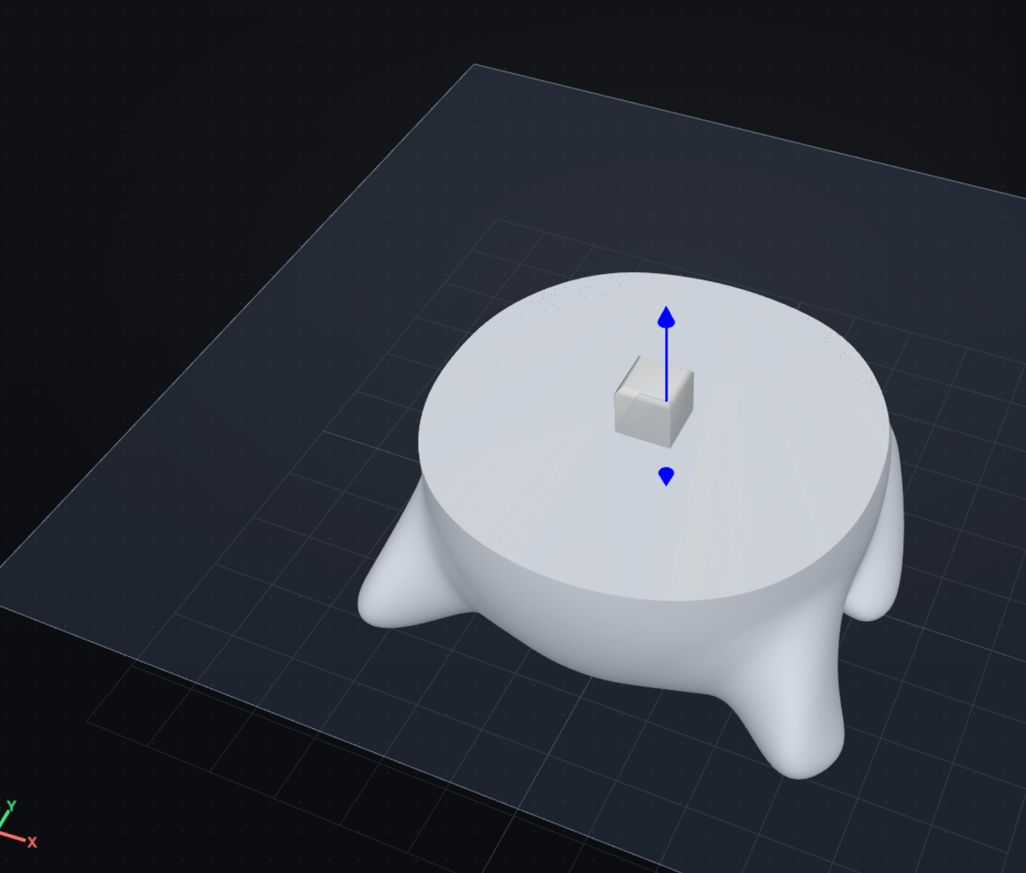
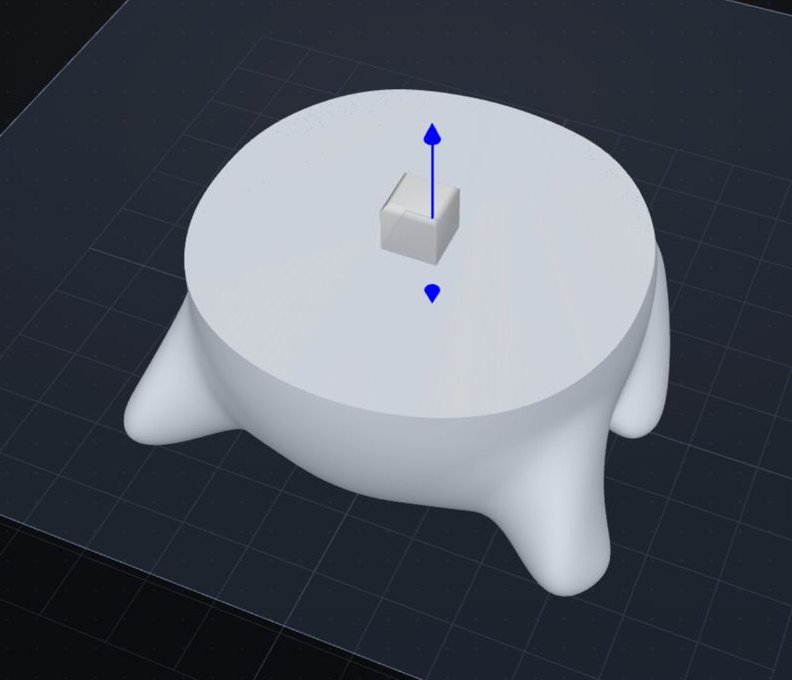
Editor: English only, centred Cut and connect image (v0.5.2) (#43)
* Landing page at /, editor at /editor (v0.5.0)

- New landing page (app/index.html, src/landing.ts, src/landing.css) based on the approved v9 mockup: EN/SK, drop zone that opens the model in the editor, #3DBenchy sample link, FAQ, privacy, feedback.
- Editor moved to app/editor.html, served at /editor (.htaccess rewrite, dev/preview middleware). /editor?sample=benchy opens the sample, /editor?open=drop opens the file dropped on the landing page (handed over through IndexedDB).
- Editor: tooltips for B/E/F/S/V and X/Y/Z, "Cut parts" tab with an icon, phone/tablet notice, texts name Bambu Studio, OrcaSlicer and PrusaSlicer.
- 3MF export also writes slic3rpe:mmu_segmentation so PrusaSlicer reads the colours.
- Anonymous counts: /api/hit.php (upload, export), /api/count.php, /api/stats.php. No IPs, no cookies, no file data.
- Hidden export counter (COUNTER_MIN) and desktop sign-up switch in src/site-config.ts.
- SEO: meta, Open Graph image, schema.org SoftwareApplication (price 0), robots.txt, sitemap.xml.
- Self-hosted fonts (Archivo, Geist, Geist Mono).

Claude-Session: https://claude.ai/code/session_015thdPVs6qyhi56jzz38Mqk

* Landing page: English only, fix the before/after colours (v0.5.1)

- The coloured Benchy in section 02 never loaded: it had loading="lazy" but starts fully clipped, so the browser never saw it as visible. Both wipe images now load normally.
- The landing page is English only: EN/SK switch and Slovak texts removed.
[…]

diff --git a/src/main.ts b/src/main.ts
@@ -17,7 +17,7 @@ import { Viewer, MAX_COLOURS, type Hit } from './viewer';
 import { anglesOfNormal, cutByPlane, inSection, normalFromAngles, planeFrame, planeSections, roomAt, sectionPole, type CutPlane, type CutResult, type P2, type Section } from './core/planecut';
 import type { V3 } from './core/cap';
 import earcut from 'earcut';
-import { t, applyStatic, setLang, getLang, type Lang } from './i18n';
+import { t, applyStatic } from './i18n';
 import { track } from './analytics';
 import { takeHandoff } from './handoff';
 
@@ -810,20 +810,6 @@ function bindUi() {
   $('exportObj').onclick = exportObj;
   bindPanels();
   bindCut();
-
-  const lang = $('langSelect') as HTMLSelectElement;
-  lang.value = getLang();
-  lang.onchange = () => {
-    setLang(lang.value as Lang);
-    renderShortcuts();
-    renderPalette();
-    updateHint();
-    syncOptions();
-    renderReport();
-    renderResult();
-    renderOutliner();
-    if (state.mesh) $('triCount').textContent = `${state.mesh.faceCount.toLocaleString()} ${t.triangles}`;
-  };
 
   const range = (id: string, key: 'size' | 'strength' | 'angle' | 'gap') => {
     $(id).oninput = (e) => {

diff --git a/app/index.html b/app/index.html
@@ -186,7 +186,7 @@
             <p style="color:var(--muted)">Drag a cutting plane through the model. STLware adds square pegs on one side and matching holes on the other, with your tolerance, so the parts snap back together.</p>
             <div class="chips"><span class="chip">cutting plane</span><span class="chip">pegs + holes</span><span class="chip">0.2 mm tolerance</span><span class="chip">parts as ZIP</span></div>
           </div>
-          <img src="img/cut-peg.jpg" alt="A model cut in two, with a square peg on the cut face" width="1026" height="873" loading="lazy" />
+          <img src="img/cut-peg.jpg" alt="A model cut in two, with a square peg on the cut face" width="792" height="680" loading="lazy" />
         </article>
       </div>
     </div>

diff --git a/app/editor.html b/app/editor.html
@@ -35,10 +35,6 @@
       <button class="btn" id="guideBtn" data-info="guide" data-i18n-title="guideHint">
         <svg viewBox="0 0 24 24"><path d="M4 19.5V5a2 2 0 0 1 2-2h13v15H6a2 2 0 0 0-2 2zM6 21h13v-3"/><path d="M8 7h7M8 10.5h5"/></svg><span data-i18n="guide"></span>
       </button>
-      <select id="langSelect" class="lang" aria-label="Language">
-        <option value="en">EN</option>
-        <option value="sk">SK</option>
-      </select>
       <button class="btn" id="openBtn">
         <svg viewBox="0 0 24 24"><path d="M12 16V4M7 9l5-5 5 5M4 20h16"/></svg><span data-i18n="open"></span>
       </button>

diff --git a/src/i18n.ts b/src/i18n.ts
@@ -567,15 +567,9 @@ const dicts = { en, sk } as const;
 export type Lang = keyof typeof dicts;
 export const LANGS: Lang[] = ['en', 'sk'];
 
+/** The site is English only. The Slovak texts stay here in case a language switch comes back. */
 function initialLang(): Lang {
-  try {
-    const saved = localStorage.getItem('stlware.lang');
-    if (saved === 'en' || saved === 'sk') return saved;
-  } catch {
-    /* storage blocked */
-  }
-  const nav = (navigator.language || 'en').toLowerCase();
-  return nav.startsWith('sk') || nav.startsWith('cs') ? 'sk' : 'en';
+  return 'en';
 }
 
 let lang: Lang = initialLang();
